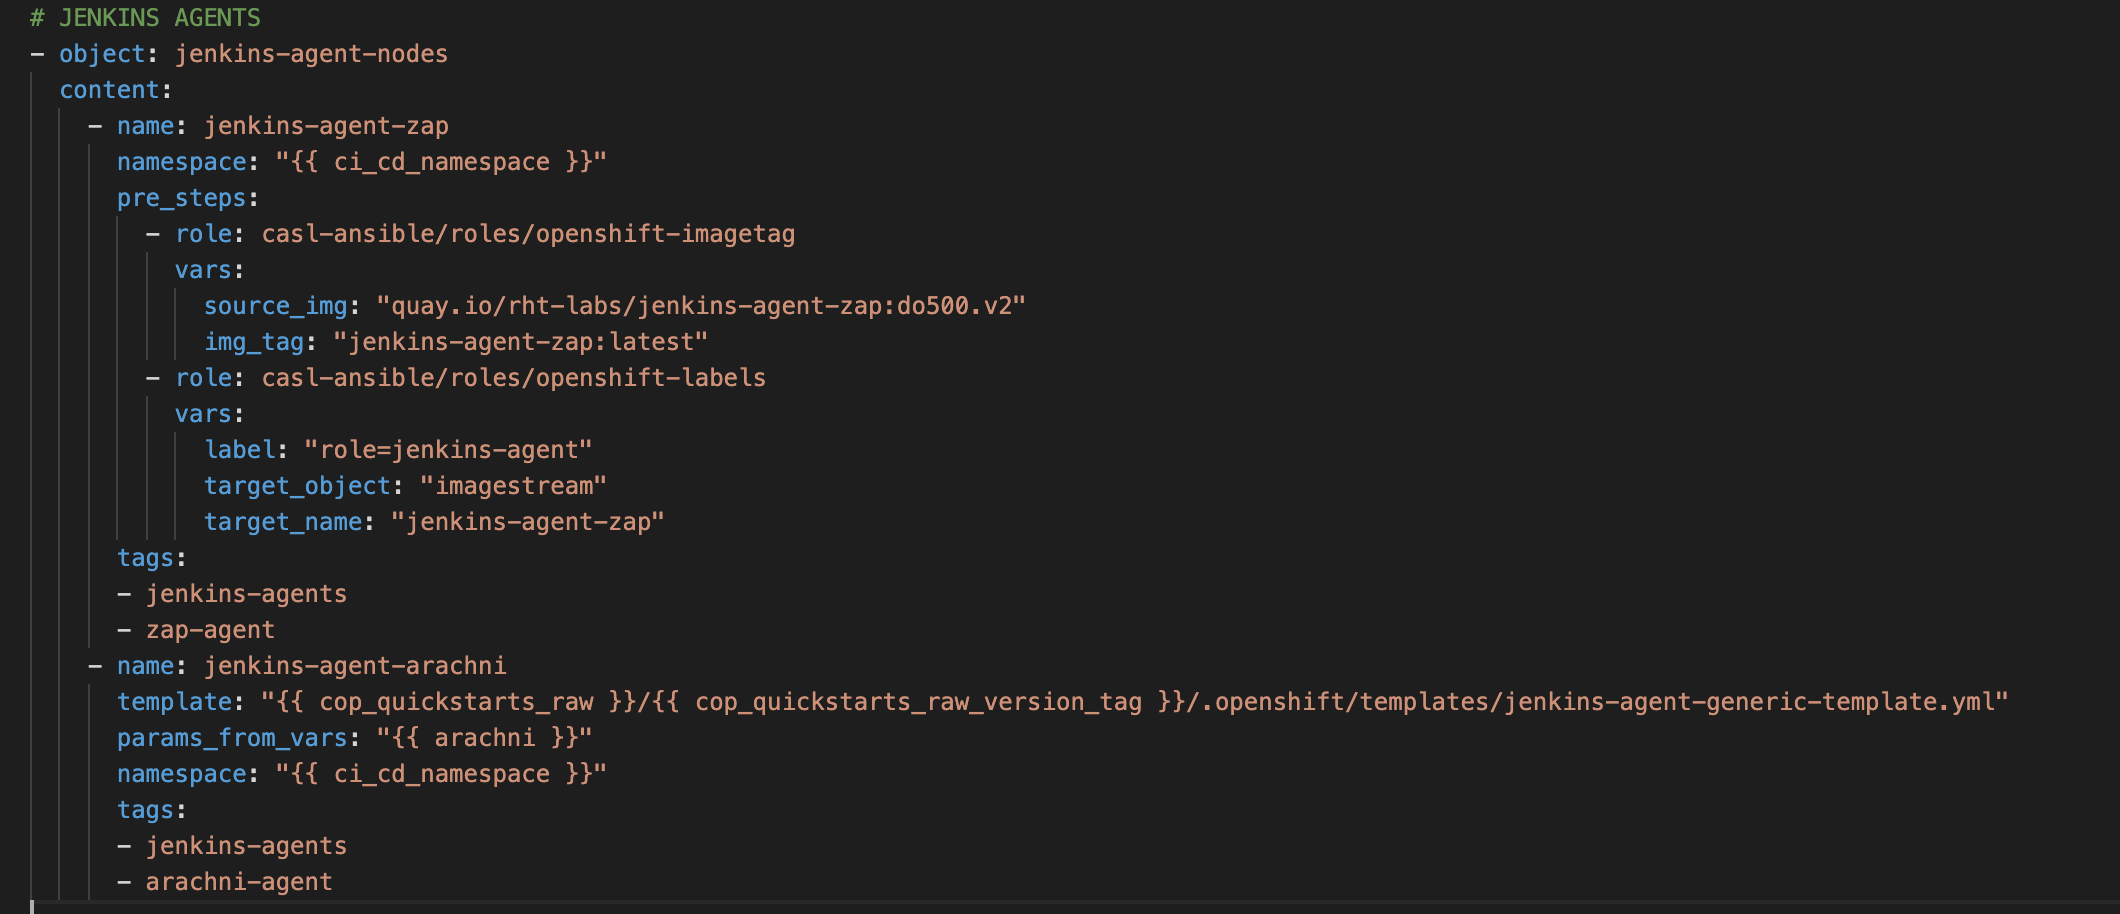
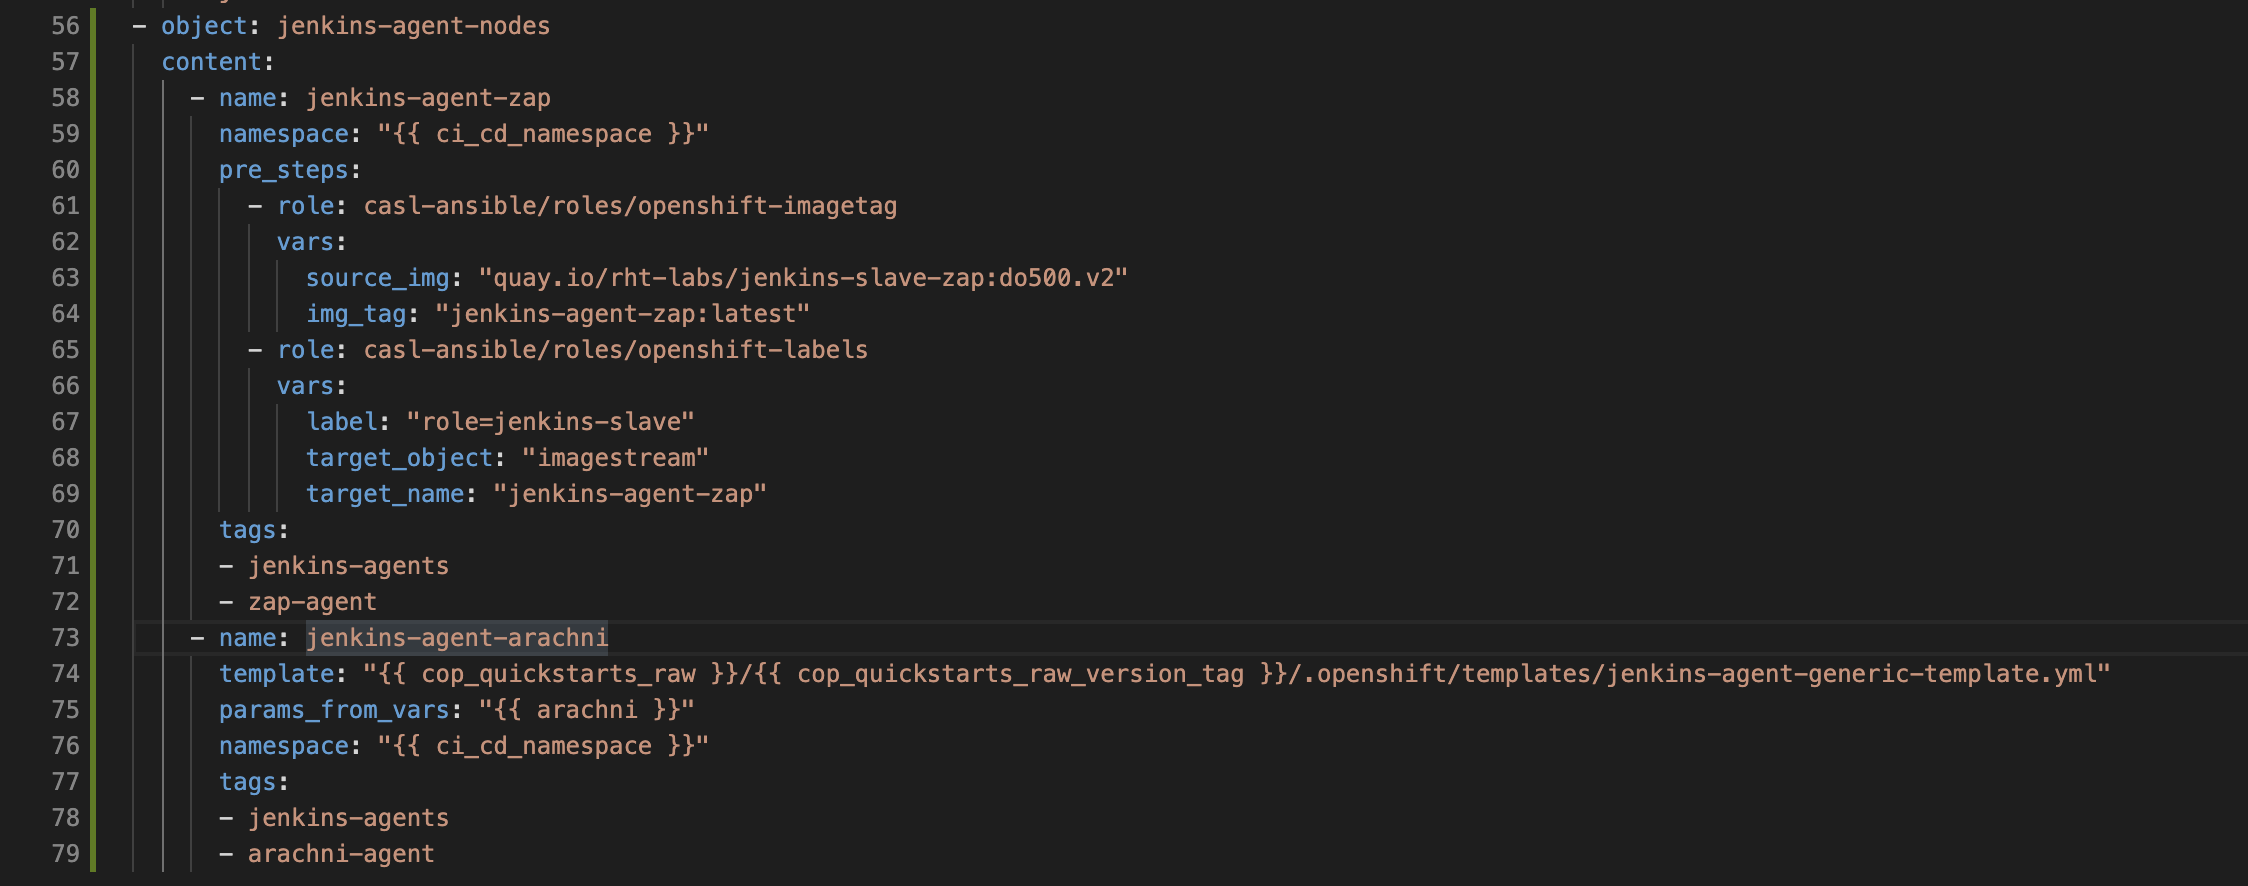
updates for exercise 4

Changed region(s): [[0.0, 0.0, 0.934, 0.9752]]

diff --git a/exercises/4-an-enslaved-hope/README.md b/exercises/4-an-enslaved-hope/README.md
@@ -76,7 +76,7 @@ _____
             img_tag: "jenkins-agent-zap:latest"
         - role: casl-ansible/roles/openshift-labels
           vars:
-            label: "role=jenkins-agent"
+            label: "role=jenkins-slave"
             target_object: "imagestream"
             target_name: "jenkins-agent-zap"
       tags:
@@ -117,6 +117,7 @@ ansible-playbook apply.yml -e target=tools \
     NAME: jenkins-agent-arachni
     SOURCE_REPOSITORY_REF: "{{ cop_quickstarts_raw_version_tag }}"
 ```
+![arachni-object-parameters](../images/exercise4/arachni-object-parameters.png)
 
 2. Add the definition below underneath the Zap config
 
@@ -168,6 +169,7 @@ cd /projects/todolist
 ```
 PIPELINE_SOURCE_REPOSITORY_URL=https://gitlab.<APPS_URL>/<GIT_USERNAME>/todolist.git
 PIPELINE_SOURCE_REPOSITORY_REF=develop
+PIPELINE_SOURCE_SECRET=git-auth
 NAME=todolist
 ```
 
